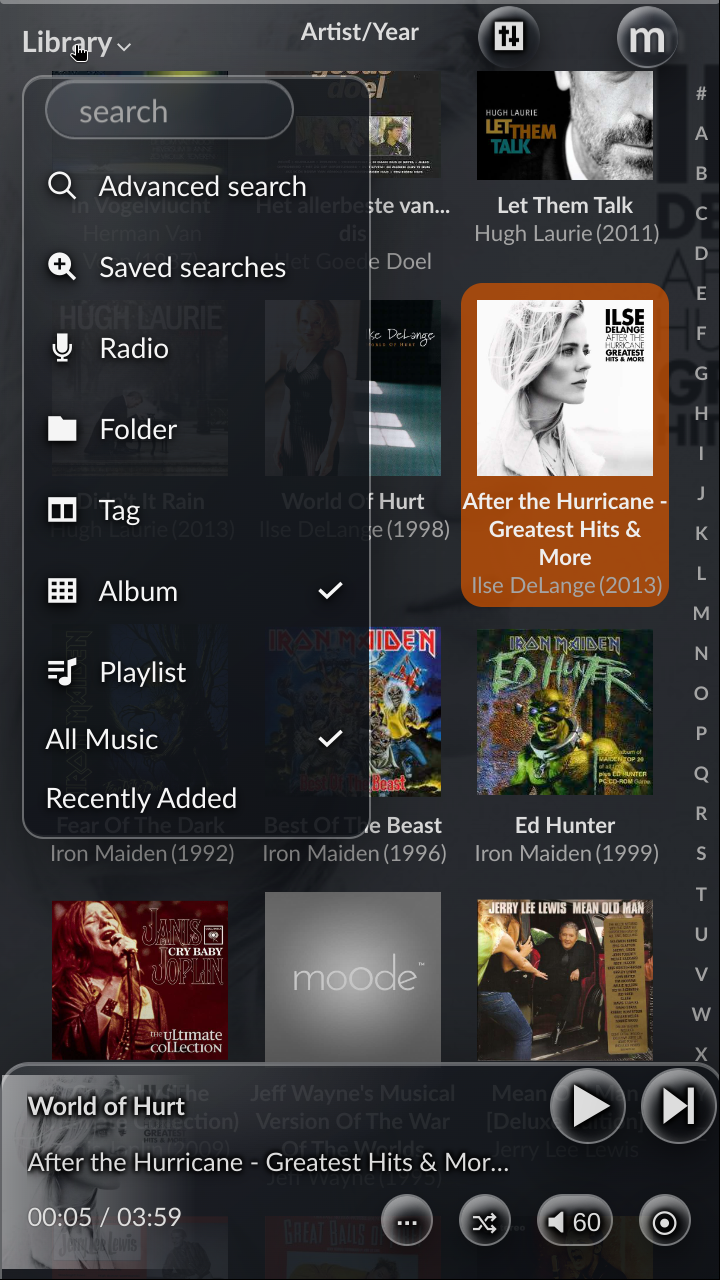
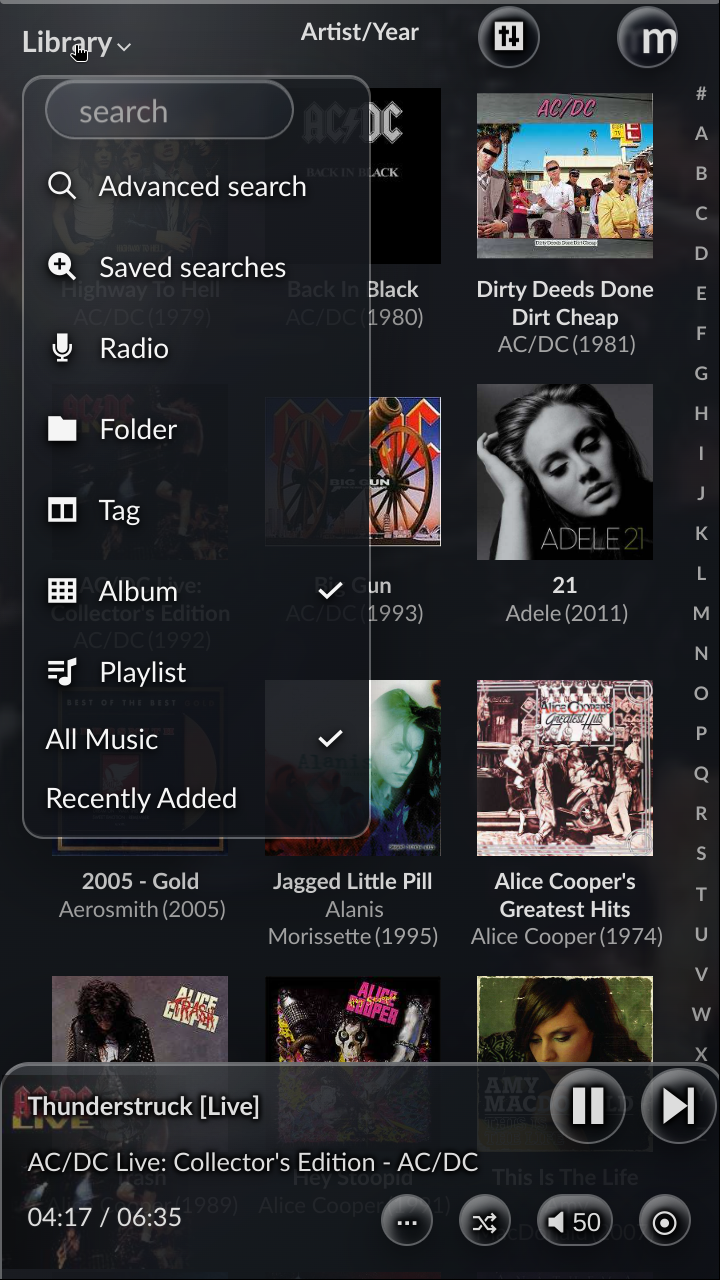
button styling

diff --git a/DarkGlassTheme/dark-glass-theme.css b/DarkGlassTheme/dark-glass-theme.css
@@ -106,6 +106,18 @@
     line-height: 1 !important;
     vertical-align: middle !important;
     transform: translateY(-.55rem) !important;
+    position: relative !important;
+    isolation: isolate;
+    overflow: hidden !important;
+    --dark-glass-highlight-blur: .55px;
+    background: transparent !important;
+    border: 1px solid rgba(255,255,255,.22) !important;
+    box-shadow: inset 1px 1.5px 2px rgba(255,255,255,.46),
+                inset -1.5px -2.5px 3.5px rgba(0,0,0,.24),
+                0 4px 10px rgba(0,0,0,.42),
+                0 1.5px 4px rgba(0,0,0,.18) !important;
+    -webkit-backdrop-filter: blur(1px) saturate(155%) contrast(104%) !important;
+    backdrop-filter: blur(1px) saturate(155%) contrast(104%) !important;
 }
 
 /* moOde positions both layers of its m brand for the original padded link.
@@ -121,7 +133,10 @@
     margin: 0 !important;
     line-height: 1 !important;
     text-align: center !important;
-    transform: translateY(-.1rem) !important;
+    /* The lowercase m has more visual weight on its right-hand side. Shift
+       both brand layers slightly left for optical, rather than merely
+       geometric, centering inside the circular button. */
+    transform: translate(-.55rem, -.1rem) !important;
 }
 
 /* Avoid re-blurring the moving album grid on every Library scroll frame. */
@@ -310,16 +325,16 @@
     position: relative !important;
     isolation: isolate;
     overflow: hidden !important;
+    --dark-glass-highlight-blur: .45px;
     background: transparent !important;
-    border: 1px solid rgba(255,255,255,.42) !important;
+    border: 1px solid rgba(255,255,255,.22) !important;
     border-radius: 50% !important;
-    box-shadow: inset 3px 5px 7px rgba(255,255,255,.56),
-                inset -5px -9px 13px rgba(0,0,0,.34),
-                inset 0 -2px 4px rgba(255,255,255,.12),
-                0 12px 28px rgba(0,0,0,.44),
-                0 4px 9px rgba(0,0,0,.22) !important;
-    -webkit-backdrop-filter: blur(1px) saturate(155%) contrast(104%) brightness(102.5%) !important;
-    backdrop-filter: blur(1px) saturate(155%) contrast(104%) brightness(102.5%) !important;
+    box-shadow: inset 1px 1.5px 2px rgba(255,255,255,.46),
+                inset -1.5px -2.5px 3.5px rgba(0,0,0,.24),
+                0 4px 10px rgba(0,0,0,.42),
+                0 1.5px 4px rgba(0,0,0,.18) !important;
+    -webkit-backdrop-filter: blur(1px) saturate(155%) contrast(104%) !important;
+    backdrop-filter: blur(1px) saturate(155%) contrast(104%) !important;
 }
 
 /* Portrait media rules otherwise make some compact toggle buttons taller than
@@ -504,23 +519,25 @@
 
 :root.dark-glass-theme #playbtns .btn,
 :root.dark-glass-theme #togglebtns .btn {
+    --dark-glass-highlight-blur: 1px;
     background: transparent !important;
-    border: 1px solid rgba(255,255,255,.42) !important;
+    border: 1px solid rgba(255,255,255,.22) !important;
     border-radius: 50% !important;
-    box-shadow: inset 7px 12px 16px rgba(255,255,255,.56),
-                inset -11px -20px 30px rgba(0,0,0,.34),
-                inset 0 -3px 7px rgba(255,255,255,.12),
-                0 28px 60px rgba(0,0,0,.46),
-                0 7px 17px rgba(0,0,0,.22) !important;
-    -webkit-backdrop-filter: blur(1px) saturate(155%) contrast(104%) brightness(102.5%) !important;
-    backdrop-filter: blur(1px) saturate(155%) contrast(104%) brightness(102.5%) !important;
+    box-shadow: inset 2px 3px 4px rgba(255,255,255,.46),
+                inset -3px -5px 7px rgba(0,0,0,.24),
+                0 9px 20px rgba(0,0,0,.42),
+                0 2.5px 6px rgba(0,0,0,.18) !important;
+    -webkit-backdrop-filter: blur(1px) saturate(155%) contrast(104%) !important;
+    backdrop-filter: blur(1px) saturate(155%) contrast(104%) !important;
     overflow: hidden !important;
     position: relative !important;
     isolation: isolate;
 }
 
-/* Match the remote overlay's curved specular lens highlight on Playback's
-   round transport and toggle controls without touching menu/text buttons. */
+/* Match the remote overlay's curved specular highlight on every persistent
+   round icon control while leaving menu rows and text actions untouched. */
+:root.dark-glass-theme #panel-header #menu-cdsp::after,
+:root.dark-glass-theme #panel-header #menu-settings::after,
 :root.dark-glass-theme #playbtns .btn::after,
 :root.dark-glass-theme #togglebtns .btn::after,
 :root.dark-glass-theme #panel-footer #playbar-controls .btn::after,
@@ -528,17 +545,19 @@
     content: '';
     position: absolute;
     z-index: 2;
-    left: 14%;
-    top: 6%;
-    width: 54%;
-    height: 18%;
+    left: 16%;
+    top: 7%;
+    width: 46%;
+    height: 14%;
     border-radius: 50%;
-    background: linear-gradient(180deg, rgba(255,255,255,.64), rgba(255,255,255,.09) 58%, transparent);
-    filter: blur(3.5px);
+    background: linear-gradient(180deg, rgba(255,255,255,.52), rgba(255,255,255,.06) 58%, transparent);
+    filter: blur(var(--dark-glass-highlight-blur, 1px));
     transform: rotate(-12deg);
     pointer-events: none;
 }
 
+:root.dark-glass-theme #panel-header #menu-cdsp > *,
+:root.dark-glass-theme #panel-header #menu-settings > *,
 :root.dark-glass-theme #playbtns .btn > *,
 :root.dark-glass-theme #togglebtns .btn > *,
 :root.dark-glass-theme #panel-footer #playbar-controls .btn > *,

diff --git a/DarkGlassTheme/patch_header.py b/DarkGlassTheme/patch_header.py
@@ -10,7 +10,7 @@ from pathlib import Path
 
 BEGIN = "<!-- BEGIN DARK GLASS THEME -->"
 END = "<!-- END DARK GLASS THEME -->"
-ASSET_VERSION = 48
+ASSET_VERSION = 52
 SOURCE_ANCHOR = re.compile(
     r'^\s*<script src="js/scripts-panels\.js(?:\?[^\"]*)?" defer></script>\s*$'
 )

diff --git a/DarkGlassTheme/readme.md b/DarkGlassTheme/readme.md
@@ -16,8 +16,13 @@ layouts. On Playback, these controls act as true glass lenses: they show a
 sharp, pixel-aligned continuation of moOde's cover backdrop while the page
 behind them remains blurred. Stronger asymmetric refraction, rim lighting, and
 depth shadows give both the transport and compact controls a convex appearance
-without placing an opaque tint over the artwork. Wide-screen footer controls
-are vertically centered and kept within
+without placing an opaque tint over the artwork. When SiriRemote is installed,
+the persistent round controls use the same rim strength, highlight shape, and
+light/dark depth balance as its overlay; unlike that overlay, their own fill
+remains transparent so the surrounding playbar or header supplies the dark
+base colour. Highlight blur and shadow distances are scaled to each control's
+diameter, preventing small buttons from looking whiter than the much larger
+overlay. Wide-screen footer controls are vertically centered and kept within
 the footer instead of touching or crossing the viewport edge. The compact
 fullscreen toggle row uses smaller true circles on landscape displays so it
 also remains fully visible when browser chrome reduces the viewport height.
